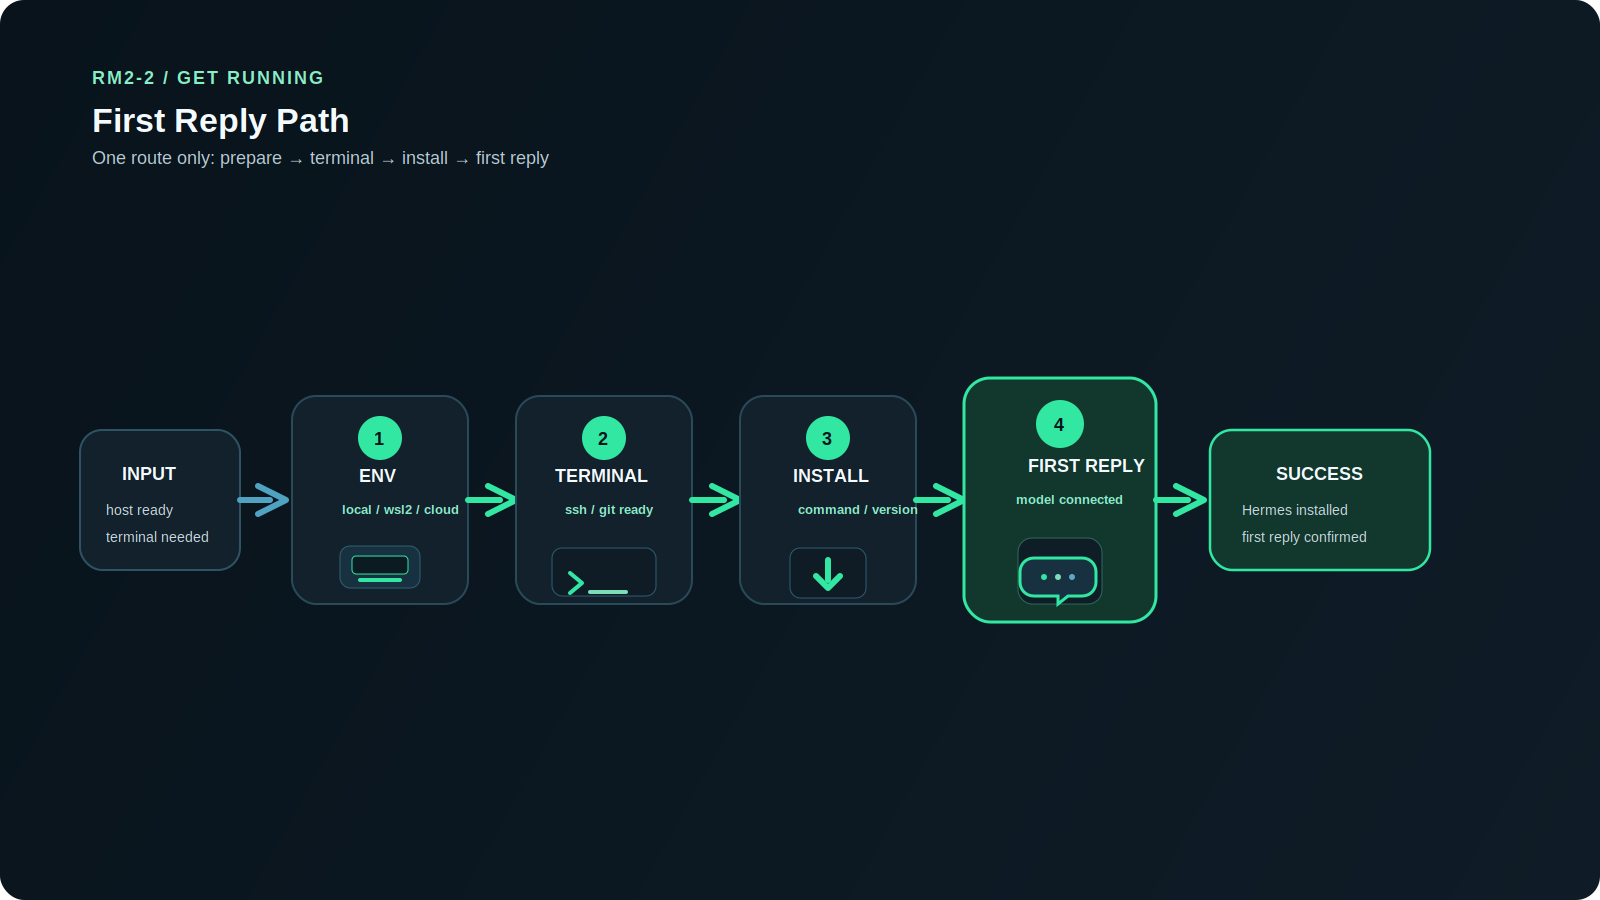
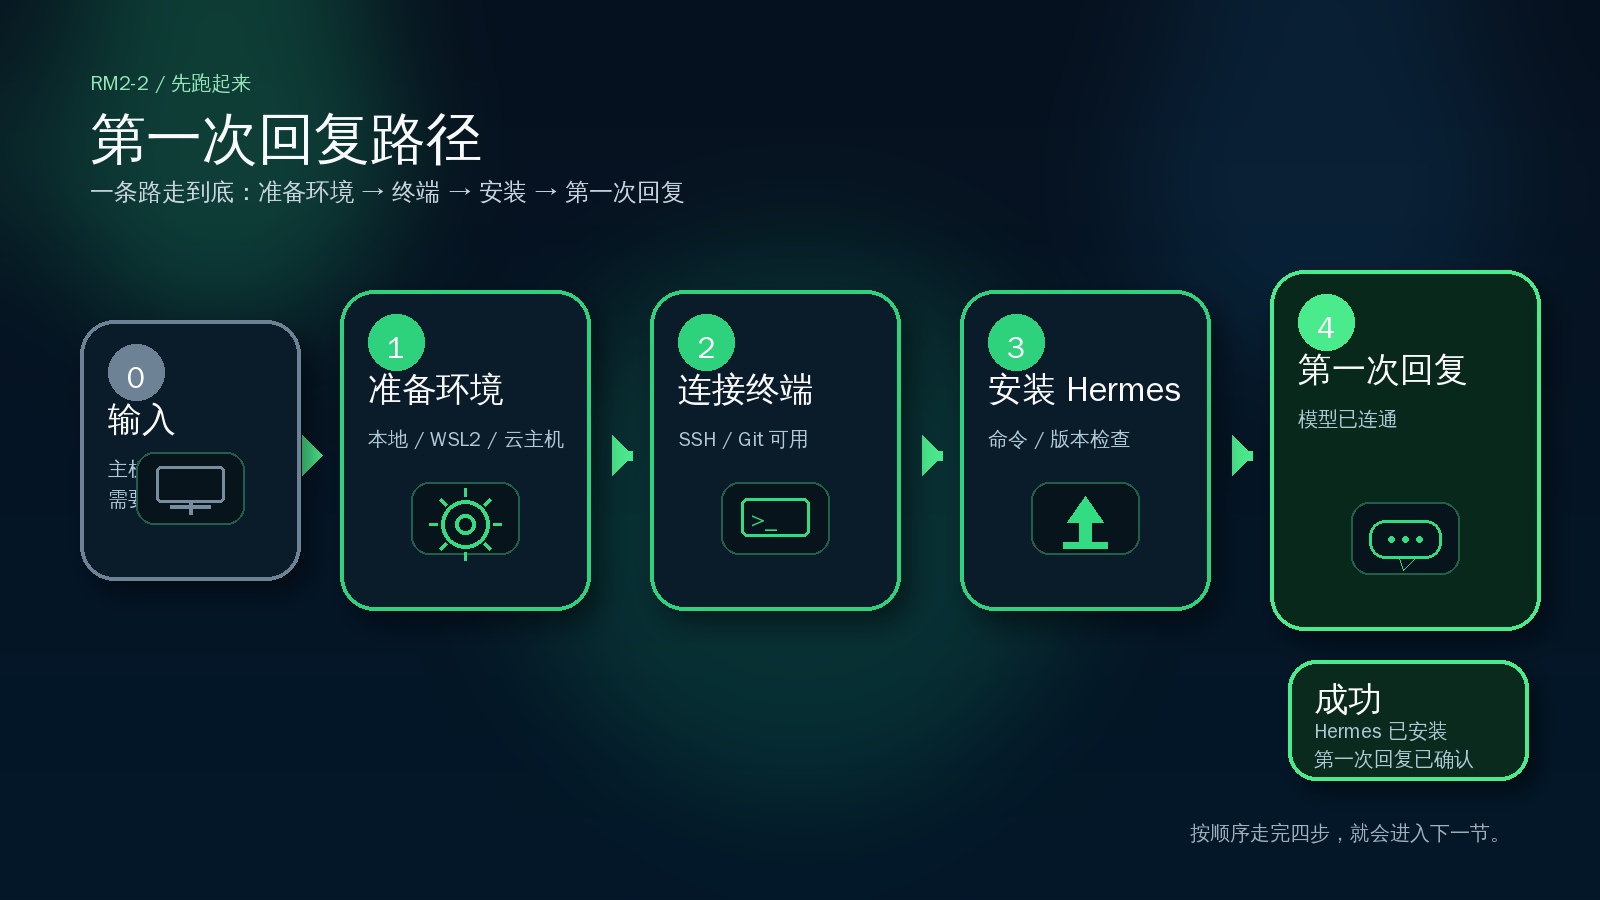
docs: improve get running overview readability

diff --git a/docs/01-从这开始/01-先跑起来/01-总览.md b/docs/01-从这开始/01-先跑起来/01-总览.md
@@ -1,91 +1,74 @@
 # 🚀 01-先跑起来
 
-![先跑起来的四步路径图：准备环境、进入终端、安装 Hermes、第一次互动](../assets/rm2-2-get-running-index-06-stage-map-closed.png)
+![先跑起来四步路径图：准备环境、连接终端、安装 Hermes、第一次回复](../assets/rm2-2-get-running-index-06-stage-map-closed.png)
 
-这一阶段只解决一件事：让你第一次把 Hermes 真正跑通。  
-不要在这里提前研究高级配置，也不要试图一次搞懂所有功能。
+这一阶段只解决一件事：让你拿到 Hermes 的第一次正常回复。  
+不要先研究高级配置，也不要急着看后面的能力页，先把最短闭环跑通。
 
-## 🧩 一句话说明
+## 这一页你会完成什么
 
-先把第一次成功回复拿到手，再进入后面的能力学习。
-这一阶段不是资料总览，也不是命令大全，而是一条最短跑通链路。
+- 先选对运行环境
+- 再连到正确的终端
+- 完成 Hermes 安装
+- 拿到第一次回复
 
-> ✅ 你在这里要完成的，不是“理解所有能力”，而是“把 Hermes 真正跑起来一次”。
-
-## 🎯 本阶段目标
-
-走完这一阶段，你应该已经完成这三件事：
-
-- ✅ 已经把 Hermes 安装到一个可用环境里
-- ✅ 已经接上一个可用模型
-- ✅ 已经拿到 Hermes 的第一次正常回复
-
-这一阶段刻意不展开的内容包括：
-
-- 斜杠命令深度用法
-- Skills
-- 持久记忆
-- 外部系统接入
-
-这些都放到后面的阶段再学，避免第一次上手时信息过载。
-
-## 🗺 四个功能页
+## 这条路径怎么走
 
 <table>
   <colgroup>
-    <col style="width: 26%;" />
-    <col style="width: 44%;" />
-    <col style="width: 30%;" />
+    <col style="width: 22%;" />
+    <col style="width: 42%;" />
+    <col style="width: 36%;" />
   </colgroup>
   <thead>
     <tr>
       <th>步骤</th>
-      <th>这一页帮你完成什么</th>
-      <th>进入页面</th>
+      <th>你要做什么</th>
+      <th>做到什么算过</th>
     </tr>
   </thead>
   <tbody>
     <tr>
-      <td><strong>🟢 第 1 步：准备环境</strong></td>
-      <td>先确定 Hermes 跑在本地、WSL2，还是云主机。</td>
-      <td><a href="./02-准备环境.md">先准备运行环境</a></td>
+      <td><strong><a href="./02-准备环境.md">1. 准备环境</a></strong></td>
+      <td>先决定 Hermes 跑在本地、WSL2，还是云主机。</td>
+      <td>你已经知道下一页该用哪条环境路线。</td>
     </tr>
     <tr>
-      <td><strong>💻 第 2 步：进入终端</strong></td>
-      <td>进入正确终端，并确认 SSH / Git / 基础环境已经可用。</td>
-      <td><a href="./03-连接终端.md">进入终端并连接服务器</a></td>
+      <td><strong><a href="./03-连接终端.md">2. 连接终端</a></strong></td>
+      <td>进入可用终端，并确认 SSH / Git 可用。</td>
+      <td>你能稳定进入命令行，继续后面的安装。</td>
     </tr>
     <tr>
-      <td><strong>📦 第 3 步：安装 Hermes</strong></td>
-      <td>执行官方安装，并确认 <code>hermes</code> 命令已经生效。</td>
-      <td><a href="./04-安装Hermes.md">把 Hermes 装上去</a></td>
+      <td><strong><a href="./04-安装Hermes.md">3. 安装 Hermes</a></strong></td>
+      <td>执行安装命令，并确认 Hermes 命令已经生效。</td>
+      <td><code>hermes</code> 可以正常启动。</td>
     </tr>
     <tr>
-      <td><strong>💬 第 4 步：第一次互动</strong></td>
-      <td>接上模型，启动 Hermes，并拿到第一次正常回复。</td>
-      <td><a href="./05-第一次回复.md">配好 AI 大模型并完成第一次互动</a></td>
+      <td><strong><a href="./05-第一次回复.md">4. 第一次回复</a></strong></td>
+      <td>接上模型，发出第一句话，拿到正常回复。</td>
+      <td>你能看到 Hermes 的第一条有效回复。</td>
     </tr>
   </tbody>
 </table>
 
-## 🧭 建议阅读顺序
+## 建议阅读顺序
 
 按上面的顺序依次完成，不要跳步。
 
-如果你是第一次安装用户，或者从来没有在终端里跑通过 Hermes，就默认从第 1 步开始。
-如果你中途停过，也按当前状态回到对应步骤继续，不要提前跳到后面的阶段。
+如果你还没选好环境，先从 [02-准备环境](./02-准备环境.md) 开始。
+如果你已经知道要跑在哪台机器上，就直接进入下一页。
 
-> 👉 最稳的节奏就是：先确认环境 → 再进终端 → 再安装 → 最后拿到第一次回复。
+## 完成标准
 
-## ✅ 成功标志
+只要下面三件事都成立，这一阶段就算完成：
 
-当下面这件事已经成立，这个阶段就完成了：
+- 运行环境已经选定
+- 终端已经连通
+- Hermes 已经能正常回复
 
-- 🎉 你已经完成安装、接入模型，并成功得到 Hermes 的第一次回复。
+这一阶段的目标不是“先把所有能力看懂”，而是“先把第一次跑通”。
 
-换句话说，这一阶段真正追求的是“第一次成功跑通”，不是“先把所有能力看懂”。
+## 下一步
 
-## ➡ 下一步
-
-完成后进入：
-- [02-开始上手](../02-开始上手/01-总览.md)
+继续进入：
+- [02-准备环境](./02-准备环境.md)
